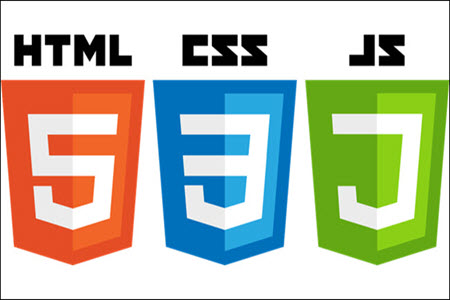
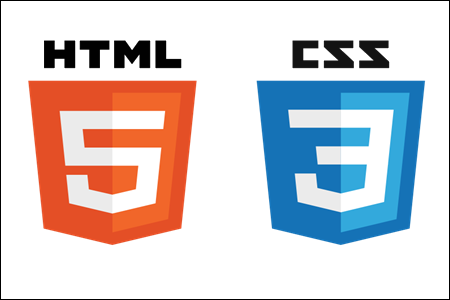
Updated images and information overlays of skills & experience

diff --git a/index.html b/index.html
@@ -177,7 +177,10 @@
                         <img class="img-responsive" alt="Portfolio" src="img/work1.jpg">
                         
                         <figcaption>
-                            <h2 class="hidden-xs">HTML - CSS - JS<span></span></h2>
+                            <h2 class="hidden-xs">HTML<span></span></h2>
+                            <h4>Content & Structure</h4>
+                            <h2 class="hidden-xs">CSS<span></span></h2>
+                            <h4>Style & Presentation</h4>
                             <!-- THESE ARE HIDDEN FOR LATER USE
                             <p class="icon-links">
                                 <a href="#"><i class="fa fa-twitter"></i></a>
@@ -248,7 +251,11 @@
                         <img class="img-responsive" alt="Portfolio" src="img/work8.png">
                         
                         <figcaption>
-                            <h2 class="hidden-xs">Intuitive<span></span></h2>
+                            <h2 class="hidden-xs">Javascript<span></span></h2>
+                            <h4>Functionality & Behavioral</h4>
+                            <h4>jQuery</h4>
+                            <h4>Node</h4>
+                            <h4>React</h4>
                             <!--THESE ARE HIDDEN FOR LATER USE
                             <p class="icon-links">
                                 <a href="#"><i class="fa fa-twitter"></i></a>
@@ -268,6 +275,13 @@
                         
                         <figcaption>
                             <h2 class="hidden-xs">Git + GitHub<span></span></h2>
+                            <h4>git</h4>
+                            <h4>init</h4>
+                            <h4>add</h4>
+                            <h4>commit</h4>
+                            <h4>push</h4>
+                            <h4>merge</h4>
+                            <h4>checkout etc...</h4>
                             <!-- THESE ARE HIDDEN FOR LATER USE
                             <p class="icon-links">
                                 <a href="#"><i class="fa fa-twitter"></i></a>
@@ -404,8 +418,7 @@
                                                     <div class="sqaure-nebir"></div>
                                                     <i class="fa fa-map-marker"></i>
                                                 </div>
-                                                <p><strong> Location:</strong> Planet Earth - Oregon.
-                                                </p>
+                                                <p><strong> Location:</strong> Planet Earth - California/Oregon.</p>
                                             </div>
                                             <div class="clearfix">
                                                 <div class="rotated-icon">

diff --git a/css/main.css b/css/main.css
@@ -200,7 +200,9 @@ body {
 .pro-name {
     font-size: 100px;
     margin: 0;
+	margin-bottom: 15px;
     margin-bottom: 15px;  
+	margin-bottom: 15px;
     /* font-family: 'Lato', sans-serif; */
     /* font-family: 'Source Sans Pro', sans-serif; */
     /* font-family: 'Niconne', cursive; */
